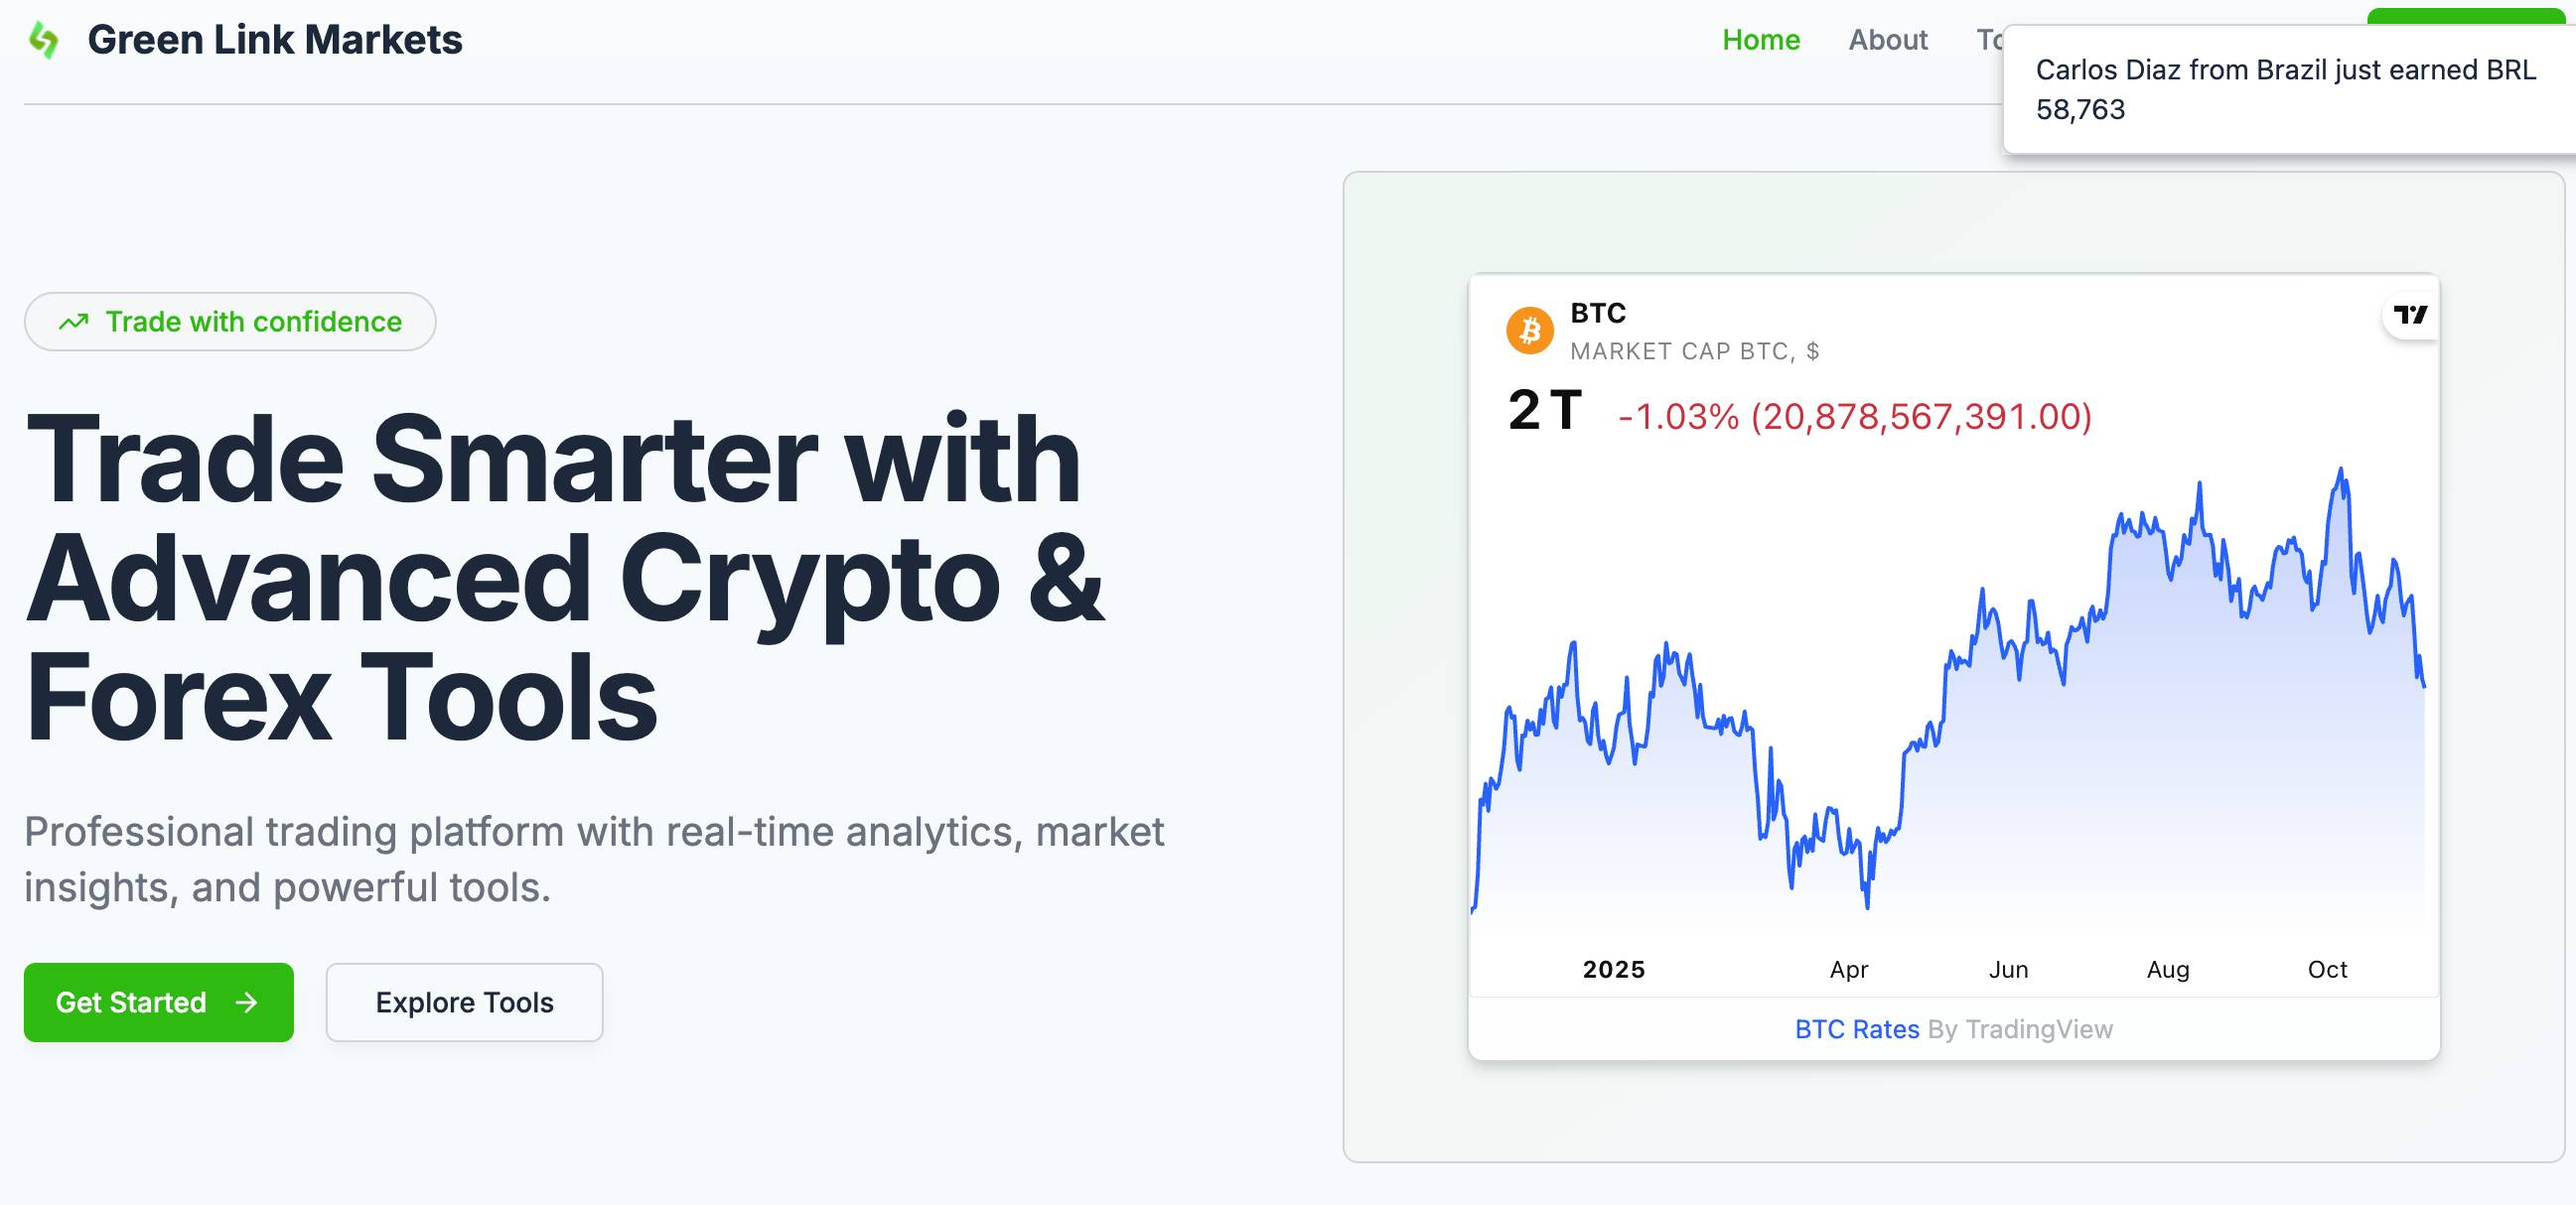
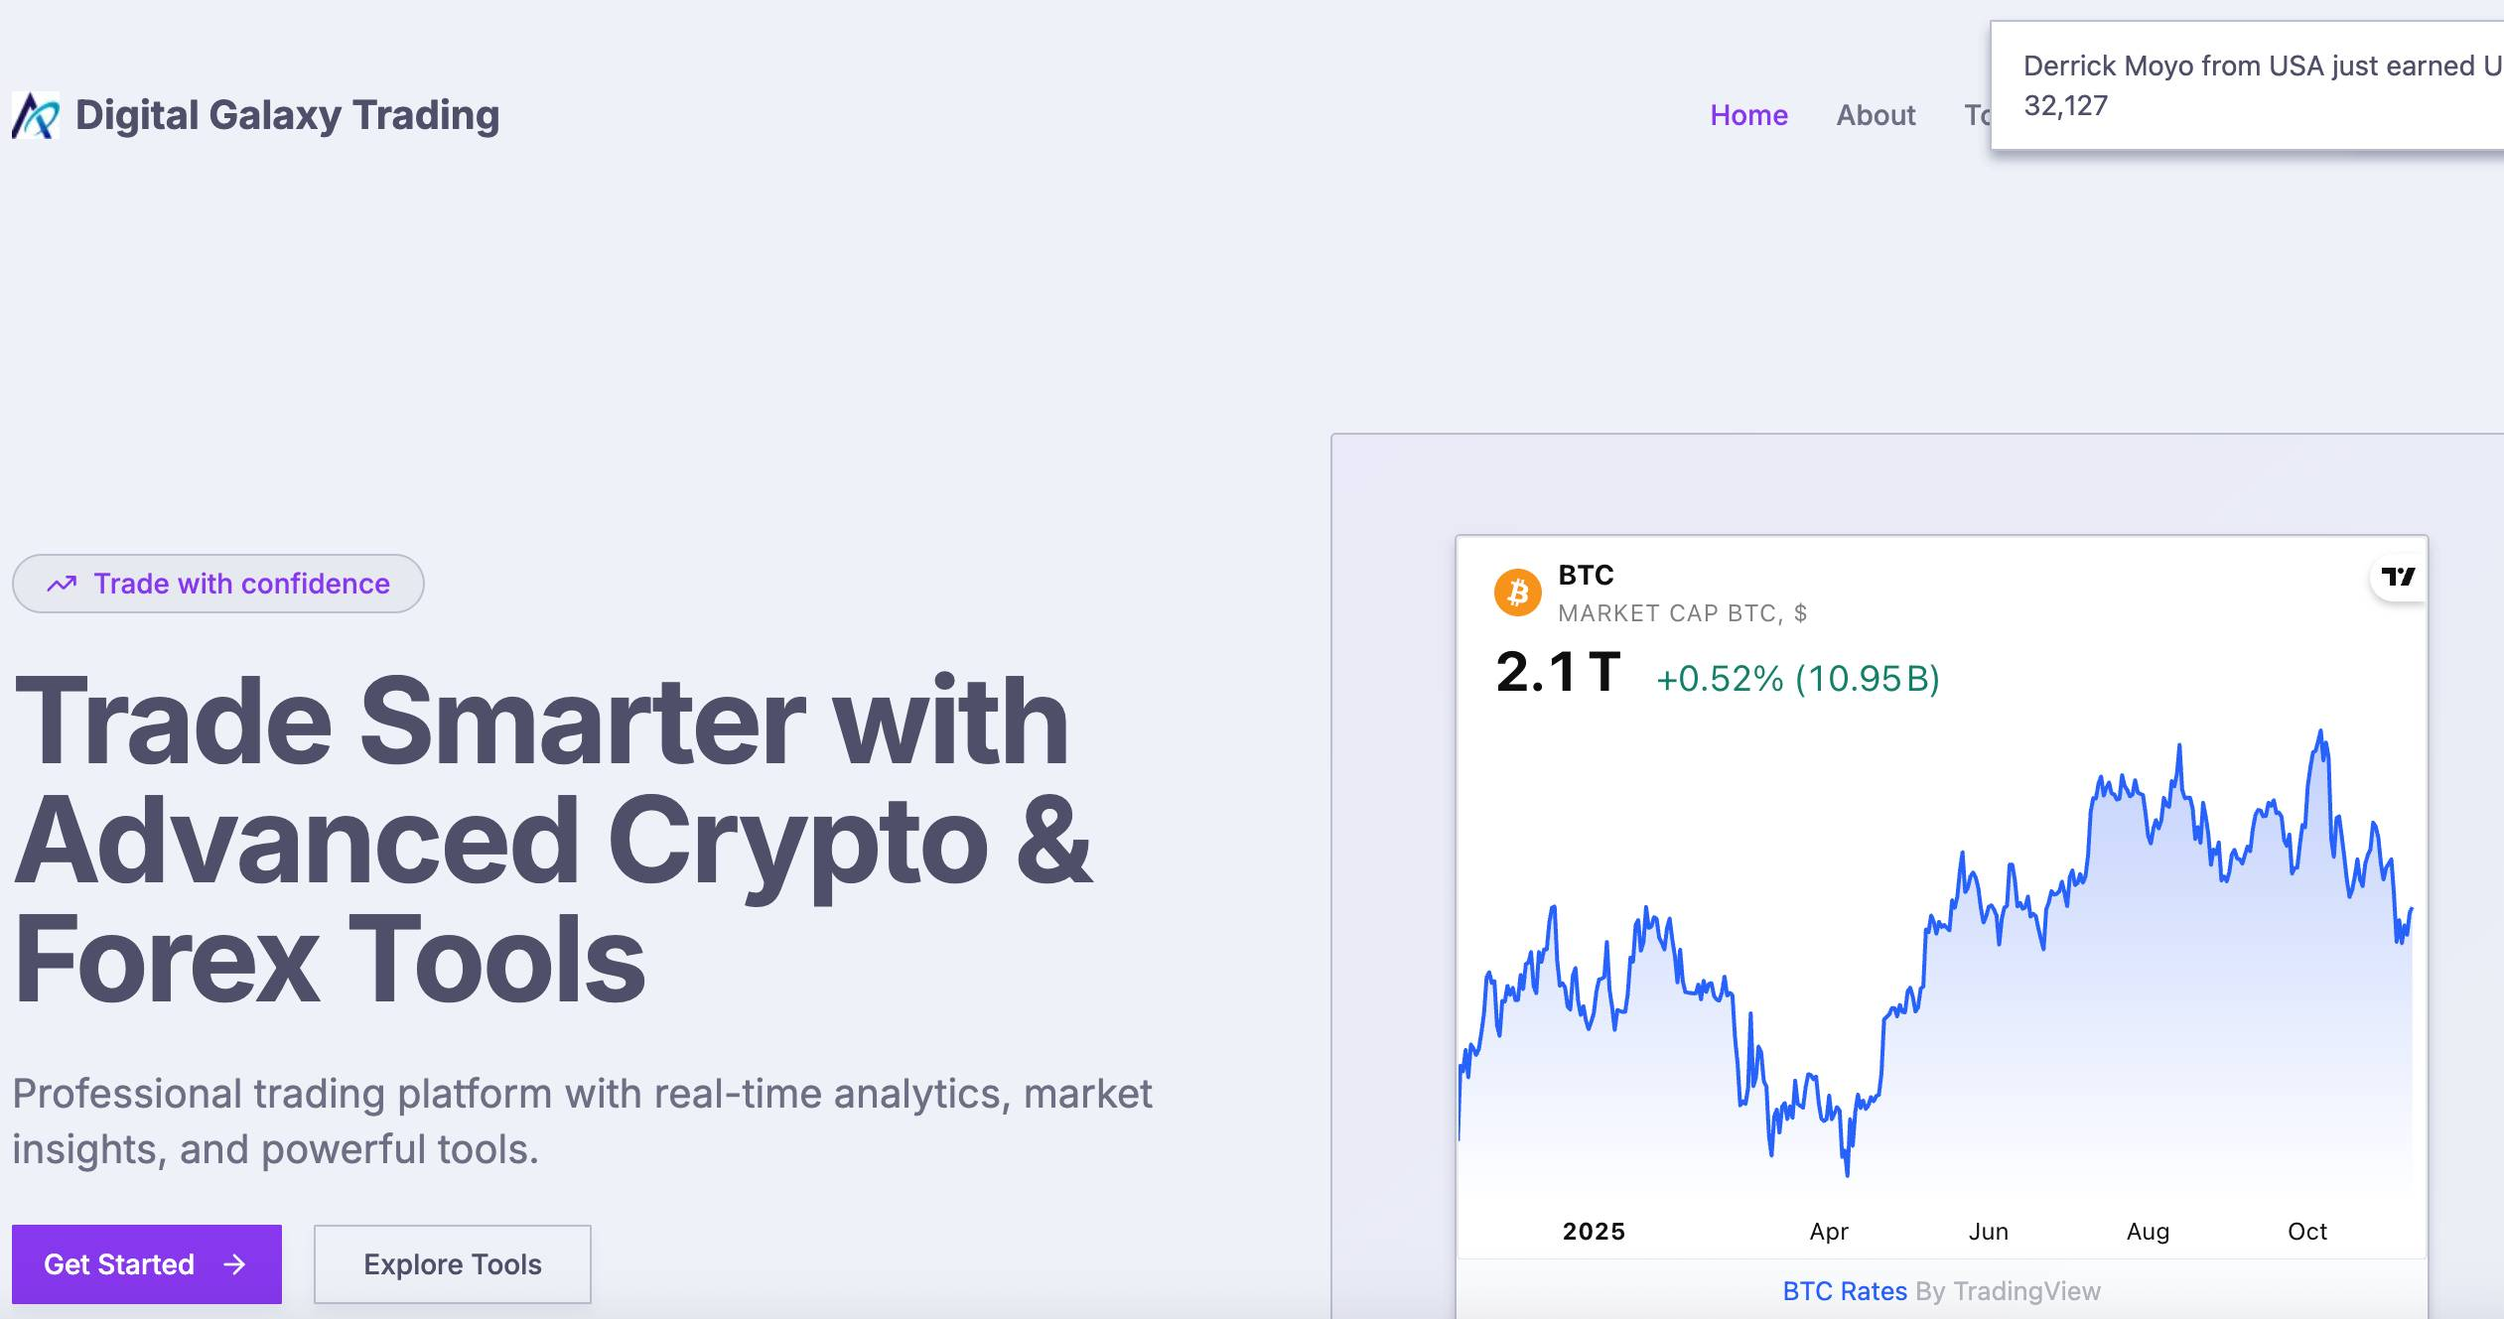
completed site

diff --git a/global/constants.ts b/global/constants.ts
@@ -1,14 +1,7 @@
-export const SITE_NAME: string = ' Green Link Markets ';
-export const SITE_URL: string = 'app.greenlinkmarkets.com';
+export const SITE_NAME: string = ' Digital Galaxy Trading ';
+export const SITE_URL: string = 'app.digitalgalaxytrading.com';
 export const PROFILE_IMAGE_PLACE_HOLDER: string = '/images/profile.jpg';
 export const SITE_URL_WITH_HTTPS: string = `https://${SITE_URL}`;
 export const LIVE_CHAT = `
-var _smartsupp = _smartsupp || {};
-_smartsupp.key = '6afad7ba58fa92613bf550138f96247b0f8b7404';
-window.smartsupp||(function(d) {
-  var s,c,o=smartsupp=function(){ o._.push(arguments)};o._=[];
-  s=d.getElementsByTagName('script')[0];c=d.createElement('script');
-  c.type='text/javascript';c.charset='utf-8';c.async=true;
-  c.src='https://www.smartsuppchat.com/loader.js?';s.parentNode.insertBefore(c,s);
-})(document);
+
   `;
